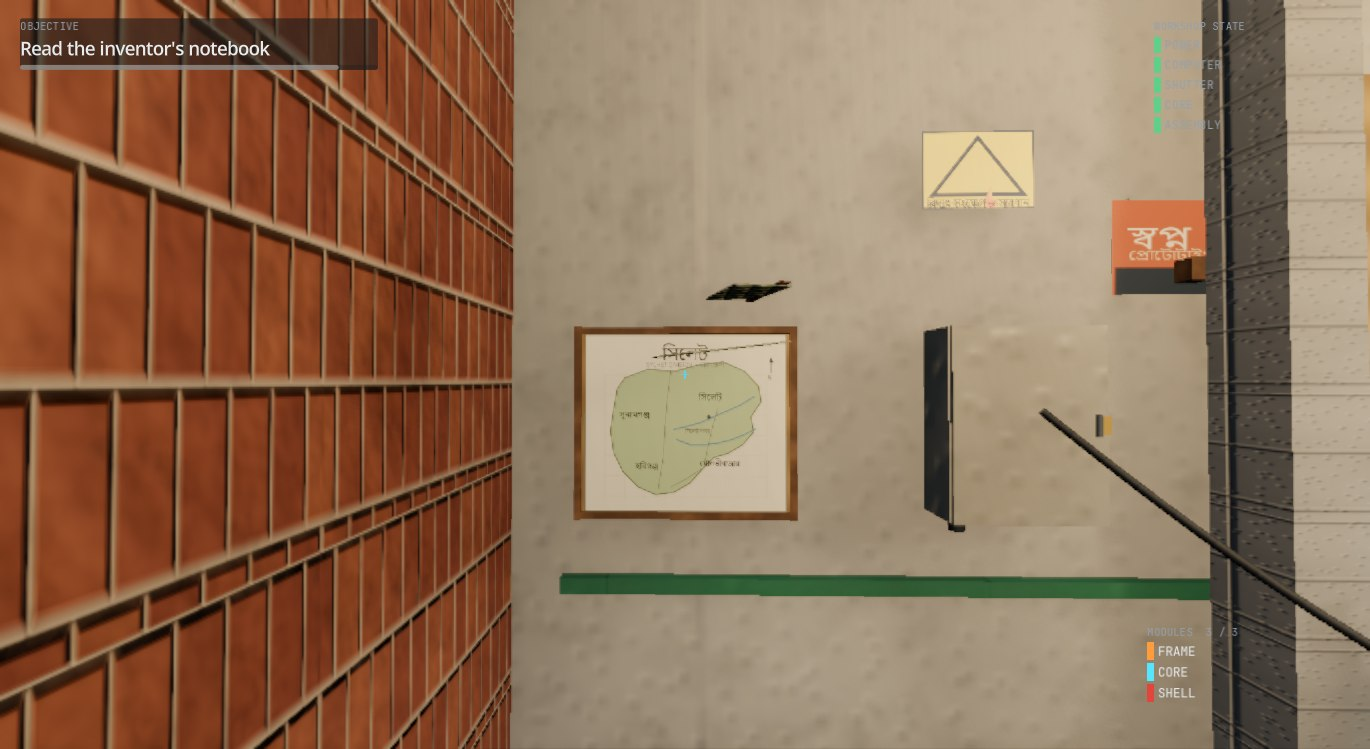
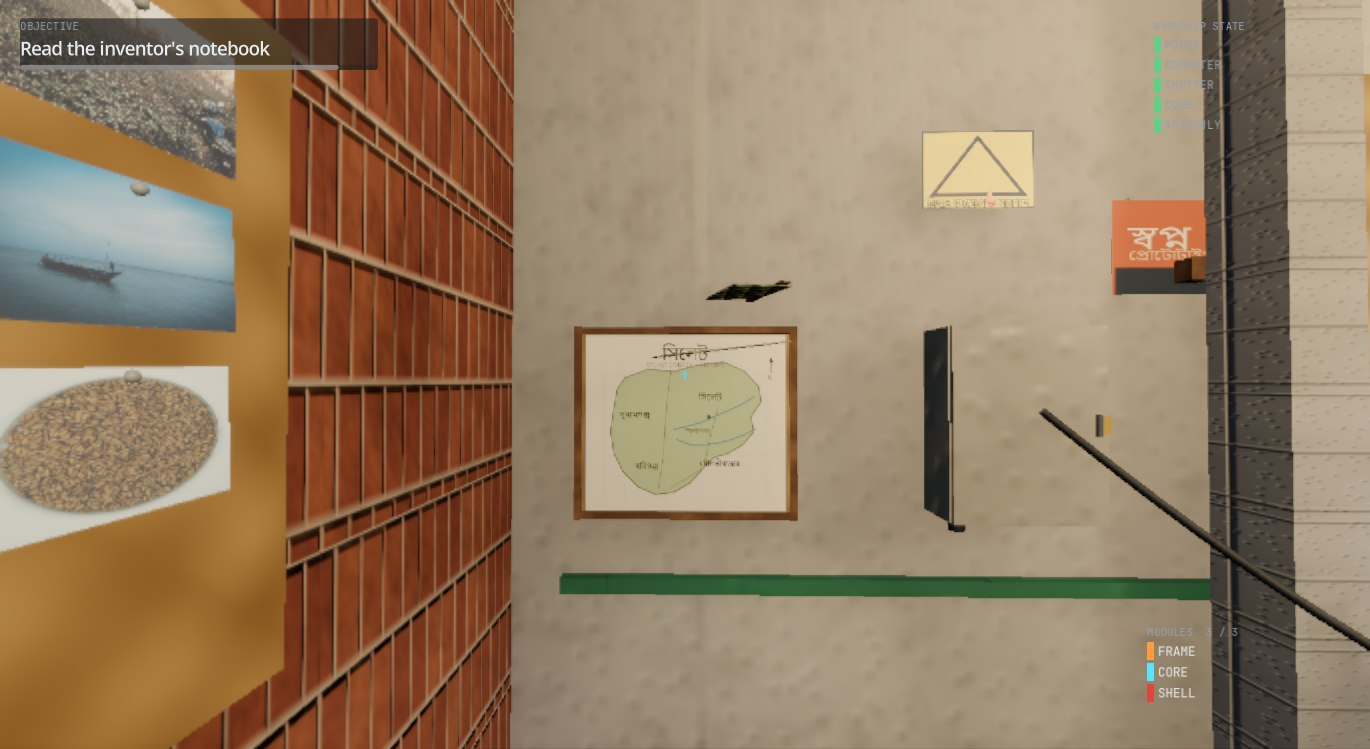
A notice wall of the country, and the author's photographs as wall art
Two sets of pictures, both requested by the author, both routed through the
project's no-import photography pipeline (MaterialLibrary.photo_print()):

The author's own (5): framed row above the mechanical bench (Bangladesh Railway
locomotive, Ali Amjad's clock, an older lab batch), the team photo leaning by the
notebook, the exosuit concept print on the north wall between the airline banner
and the fan ring, and a desk flag sharing the gate flag's cloth — one bake feeds
both poles, and the desk pole is named explicitly after Godot auto-renamed the
collision and left its cloth white.

The notice wall (13): a new photo_wall prop — plywood board, grid of small prints
pinned slightly crooked, each its own material — hung on the entrance's west
pier, opposite the country map. The photographs are community-licensed
(CC BY-SA 4.0) files from Wikimedia Commons, fetched through the Commons API,
licence-checked before download, resized to 480 px (~667 KB total) and recorded
file-by-file with author and source page in docs/ASSET_LICENSES.md (two
Bengali-titled pages linked via search, noted honestly). First fetch attempts hit
Wikimedia's WAF on the WARP egress IP; the direct connection with paced requests
worked, and the whole set stays fast — no new lights, one prop, one station.

Counts: 198 props built, 192 placed, 54 stations, capture set 19 viewpoints.
README's gallery gains the collage and the division map; README, USER_MANUAL,
[…]

Changed region(s): [[0.0, 0.0, 0.2146, 1.0]]

diff --git a/docs/SYSTEM_ARCHITECTURE.md b/docs/SYSTEM_ARCHITECTURE.md
@@ -50,7 +50,7 @@ to catch the first.
     ├── Carry                    (Node)     CarrySystem: mouse pick-up / place / rotate / put back
     ├── Garage                   (Node3D)   GarageStructure: floor, walls, columns, roof, shutter frame
     ├── Environment              (Node3D)   GarageEnvironment: WorldEnvironment, 37 lights, dust, rain
-    ├── Dressing                 (Node3D)   GarageDressing: 191 props, 53 stations, cables, signage, decals
+    ├── Dressing                 (Node3D)   GarageDressing: 192 props, 54 stations, cables, signage, decals
     │
     ├── area volumes ×6          (Area3D)   named rooms; group "garage_areas"
     ├── Player                   (CharacterBody3D)
@@ -82,16 +82,16 @@ progress.
 
 | Step | What it does | Measured (UHD 620) |
 |---|---|---|
-| 0 | `MaterialLibrary.ensure_built()`, first surface synthesised | 270 ms for one 256 px surface (262–283 across runs) |
-| 1 | `GarageStructure.build()` — floor, plinths, courtyard, walls, columns, roof, shutter frame, entrance apron, windows | 5 866 ms |
-| 2 | `GarageEnvironment.build()` — sky, WorldEnvironment, 29 lights in 4 circuits, dust, rain (the five always-on bulbs and the sign's RGB rig are registered by the dressing, each light attached to its own prop) | 40 ms |
-| 3 | `GarageDressing.dress()` — 5 areas, 4 procedural layout groups, 2 wall racks, cables, signage, the always-on bulbs, the wall maps, the sign's RGB rig, the photographs | 4 996 ms |
+| 0 | `MaterialLibrary.ensure_built()`, first surface synthesised | 269 ms for one 256 px surface (262–283 across runs) |
+| 1 | `GarageStructure.build()` — floor, plinths, courtyard, walls, columns, roof, shutter frame, entrance apron, windows | 5 912 ms |
+| 2 | `GarageEnvironment.build()` — sky, WorldEnvironment, 29 lights in 4 circuits, dust, rain (the five always-on bulbs and the sign's RGB rig are registered by the dressing, each light attached to its own prop) | 37 ms |
+| 3 | `GarageDressing.dress()` — 5 areas, 4 procedural layout groups, 2 wall racks, cables, signage, the always-on bulbs, the wall maps, the sign's RGB rig, the photographs, the notice wall | 5 187 ms |
 | 4 | Area volumes | — |
-| 5 | Live `SubViewport`s for 5 screens, attached to their materials | 73 ms |
-| 6 | Player, camera, ray, reticle, collision, capsule sizing | 31 ms |
-| 7 | HUD, all panels, `ObjectiveDirector`, `start()` | 233 ms |
+| 5 | Live `SubViewport`s for 5 screens, attached to their materials | 78 ms |
+| 6 | Player, camera, ray, reticle, collision, capsule sizing | 32 ms |
+| 7 | HUD, all panels, `ObjectiveDirector`, `start()` | 201 ms |
 | 8 | `_apply_restored_state()` — replays a saved run with `instant = true` | — |
-| | **total** | **11 509 ms** |
+| | **total** | **11 716 ms** |
 
 Surfaces are synthesised **lazily**, on first request. Loading every recipe up front would cost
 roughly 9.5 s for all 34 at 256 px; the garage actually touches 34 of them, so the saving is in the
@@ -169,7 +169,7 @@ per texel into colour/roughness/metallic/occlusion/height, pack to RGB8 byte buf
 tangent-space normal by Sobel gradient on the wrapped height field, upload in one
 `Image::create_from_data` per channel. See `docs/GRAPHICS_ALGORITHMS.md` §2.
 
-**`shape_kit.gd`** — the primitive composition layer, and the reason 197 props is affordable. Two
+**`shape_kit.gd`** — the primitive composition layer, and the reason 198 props is affordable. Two
 ideas: a mesh cache keyed on dimensions so forty spanners share one mesh, and true generators (lathe
 from a profile, gear from tooth count and module, tube sweep, coil, chain, plate) for the shapes that
 are not primitives. Also `shape_aabb_local()`, `area_aabb()` and `node_bounds()`, which exist because
@@ -350,7 +350,7 @@ and in the capture harness. The rain, the dust and the footsteps use separate se
 one does not perturb another.
 
 **Fixed capture viewpoints.** The capture harness drives the progression to a known state and parks
-the camera at eighteen declared transforms, which is what makes the screenshots in `captures/`
+the camera at nineteen declared transforms, which is what makes the screenshots in `captures/`
 comparable between code revisions. It also reports a luminance histogram per shot: the check that
 matters most is the `black` percentage, because a lighting rig that renders almost nothing still
 produces a screenshot and would otherwise read as success.
@@ -375,7 +375,7 @@ so that `tests/validate_scripts.gd` can run in an environment with no GPU.
 | `tests/walk_in.gd` | Builds the world headless, takes control of the real player and drives it from the spawn into the shop, back out and sideways across the courtyard, printing position, floor contact, stalls and — when stalled — the exact collider being slid against. This is what proved the entrance lip unclimbable, the courtyard boundless, and the gravity-accumulation pinning on slopes (`docs/EXPERIMENTS.md` §7.6). |
 | Perf harness (`perf.flag`) | Drives the full progression, then samples three fixed viewpoints twice each — shipped settings and the earlier values flipped back at runtime in the same session — and writes a paired A/B table to `user://captures/perf.log`. Its first run is what exposed the shadow-budget bug and the session's 7.5 Hz presentation cap (`docs/EXPERIMENTS.md` §7.5). |
 | `tests/bake_preview.gd` | Renders the lab-wall plate specs (scientists, header, inventions board) and the wall maps (Bangladesh, Sylhet) to PNGs in `user://captures/`, so Bengali on a wall can be proof-read at full resolution without launching the garage. |
-| Capture harness | Boots the real renderer, drives the full progression, writes 18 PNGs plus luminance histograms and a build report. Catches the class of failure that compiles cleanly and renders nothing. |
+| Capture harness | Boots the real renderer, drives the full progression, writes 19 PNGs plus luminance histograms and a build report. Catches the class of failure that compiles cleanly and renders nothing. |
 | Graphics bench | Self-measurement at runtime, exportable to CSV, with a fixed-camera capture at each configuration. |
 
 What is **not** tested: there is no unit test suite, no automated interaction test that drives `E`

diff --git a/docs/EXPERIMENTS.md b/docs/EXPERIMENTS.md
@@ -39,7 +39,7 @@ transfer.
   `CableGenerator.last_stats`, `GarageDressing.layout_stats()`.
 
 **Reproducibility controls.** Fixed seed 1337 for prop generation; a per-group seed for each
-procedural layout; per-surface seeds derived by hash; eighteen fixed camera transforms; 30 frames of
+procedural layout; per-surface seeds derived by hash; nineteen fixed camera transforms; 30 frames of
 warm-up discarded before every measurement.
 
 **Known weakness.** Godot 4.7 exposes no GPU timestamp query. All per-pass costs below are
@@ -378,33 +378,33 @@ performance work.
 
 | Step | Time | Share | What dominates |
 |---|---|---|---|
-| Surface synthesis (first surface) | 270 ms | 2.3% | the per-texel loop |
-| Structure — floor, walls, columns, roof, shutter, entrance apron, windows | 5 866 ms | 51.0% | mesh generation, collision shapes, and the surfaces it requests |
-| Environment — sky, `WorldEnvironment`, 29 lights, dust, rain | 40 ms | 0.3% | negligible |
-| Dressing — 191 placements, 53 stations, 4 layout groups, cables, signage, grime decals, wall plaques, flag, coin, always-on bulbs, wall maps, the sign's RGB rig, photographs | 4 996 ms | 43.4% | prop construction, station wiring, and its surfaces |
-| Screens — 5 live `SubViewport`s and their materials | 73 ms | 0.6% | — |
-| Player — camera, ray, reticle, collision | 31 ms | 0.3% | — |
-| Interface — HUD, 10 panels, objective director | 233 ms | 2.0% | — |
-| **Total** | **11 509 ms** | **100%** | |
+| Surface synthesis (first surface) | 269 ms | 2.3% | the per-texel loop |
+| Structure — floor, walls, columns, roof, shutter, entrance apron, windows | 5 912 ms | 50.5% | mesh generation, collision shapes, and the surfaces it requests |
+| Environment — sky, `WorldEnvironment`, 29 lights, dust, rain | 37 ms | 0.3% | negligible |
+| Dressing — 192 placements, 54 stations, 4 layout groups, cables, signage, grime decals, wall plaques, flag, coin, always-on bulbs, wall maps, the sign's RGB rig, photographs, the notice wall | 5 187 ms | 44.3% | prop construction, station wiring, and its surfaces |
+| Screens — 5 live `SubViewport`s and their materials | 78 ms | 0.7% | — |
+| Player — camera, ray, reticle, collision | 32 ms | 0.3% | — |
+| Interface — HUD, 10 panels, objective director | 201 ms | 1.7% | — |
+| **Total** | **11 716 ms** | **100%** | |
 
 **Dressing breakdown, `GarageDressing.dressing_breakdown()`**
 
 | | |
 |---|---|
-| Props placed by the dressing pass | 191 |
-| Props built in total (includes module payloads and suit parts) | 197 |
+| Props placed by the dressing pass | 192 |
+| Props built in total (includes module payloads and suit parts) | 198 |
 | Distinct prop kinds | 134 |
-| Authored placements | 159 |
+| Authored placements | 160 |
 | Procedural placements | 22 (4 groups: 6 + 5 + 6 + 5) |
 | Wall-rack placements | 10 |
-| Mesh cache hits / misses | 1 805 / 1 140 |
+| Mesh cache hits / misses | 1 818 / 1 141 |
 | Rejection-sampler efficiency | 46% of attempts produce a placement |
 
 The counts above are from the shipped build. The per-step times are from the latest capture run;
-the same garage measured 11 466 ms, 11 015 ms and 12 473 ms across the day's earlier runs, so treat
-absolute milliseconds as load-dependent — they drift by about 20% when something else is using the
-laptop — and the shares as the finding. This is worth stating rather than pretending the machine is a
-benchmark rig.
+the same garage measured 11 509 ms, 11 466 ms, 11 015 ms and 12 473 ms across the day's earlier
+runs, so treat absolute milliseconds as load-dependent — they drift by about 20% when something else
+is using the laptop — and the shares as the finding. This is worth stating rather than pretending the
+machine is a benchmark rig.
 
 **Finding 7.1 — surface synthesis dominates the wall clock.** The first surface costs 262–283 ms across
 runs in step 0; the other 33 are synthesised lazily inside the structure and dressing steps. At
@@ -413,8 +413,8 @@ left is moving that per-texel loop to a compute shader, not reducing geometry. T
 13 × 16.5 m room measured 71%; the share rose when the room shrank, because the texture cost is per
 *surface*, not per cubic metre.
 
-**Finding 7.2 — mesh caching is what makes 197 props affordable.** 1 140 distinct meshes serve 191
-placed props through 1 805 hits. Without the cache every spanner, capacitor and bolt would allocate
+**Finding 7.2 — mesh caching is what makes 198 props affordable.** 1 141 distinct meshes serve 192
+placed props through 1 818 hits. Without the cache every spanner, capacitor and bolt would allocate
 its own `BoxMesh`; with it, forty spanners share one. This is also why the frame time is as low as it
 is — shared meshes are candidates for batching in a way that per-instance geometry is not.
 
@@ -557,7 +557,7 @@ mathematically on the ground — and only the joint reading of numbers and pixel
 11. The per-texel composition loop is the surface-synthesis bottleneck, not the noise generation;
     moving from 512 px to 256 px halved the load time with no visible loss because tiling hides the
     missing resolution. (§1.1)
-12. Mesh caching at 1.6:1 reuse is what makes 197 props affordable. (§7.2)
+12. Mesh caching at 1.6:1 reuse is what makes 198 props affordable. (§7.2)
 13. Two-thirds of the total build is structure and dressing geometry. (§7.4)
 14. A state the build writes itself cannot be used to audit the build: the restore replay read
     `GameState` back and re-applied the still-running build's own writes, killing the new auto-open on

diff --git a/docs/ASSET_LICENSES.md b/docs/ASSET_LICENSES.md
@@ -10,8 +10,9 @@ records exactly what came from where, and under what terms.
 
 | Category | Count | Origin | Licence |
 |---|---|---|---|
-| 3D meshes | 1 140 distinct, 191 placed | **Generated at runtime** by `ShapeKit` and the prop catalogues | Original work, same licence as the source |
+| 3D meshes | 1 141 distinct, 192 placed | **Generated at runtime** by `ShapeKit` and the prop catalogues | Original work, same licence as the source |
 | Photographs (5) | Wall art from `assets/textures/user/` | **Supplied by the author** for in-world frames | Loaded with `Image.load_from_file()`, no import side files; the locomotive and clock images are also published on Wikimedia Commons — pin their exact licences before wider redistribution |
+| Photographs (13) | The notice-wall collage, `assets/textures/wall/` | **Wikimedia Commons, CC BY-SA 4.0**, fetched through the Commons API and resized to 480 px | Every file, author and source page is listed below |
 | Texture images | 34 surface sets × 3 channels = 102 images | **Synthesised at runtime** by `TextureFactory` | Original work |
 | Supplied photograph | 1 image (127 KB) | **Provided by the project's author** — the workshop banner hung on the north wall | Author's own work, used with the author's permission |
 | Audio | 22 clips | **Synthesised at runtime** by `AudioSynth` | Original work |
@@ -33,8 +34,33 @@ catalogues.
 Two mechanisms are used:
 
 **Engine primitives, parameterised.** Godot's `BoxMesh`, `CylinderMesh`, `SphereMesh`, `TorusMesh`,
-`PlaneMesh` and `CapsuleMesh` are configured per prop and cached by dimensions. 1 140 distinct
-configured meshes serve 191 placed props through 1 805 cache hits in the shipped room.
+`PlaneMesh` and `CapsuleMesh` are configured per prop and cached by dimensions. 1 141 distinct
+configured meshes serve 192 placed props through 1 818 cache hits in the shipped room.
+
+**The notice-wall photographs.** Thirteen files from Wikimedia Commons, fetched through the Commons
+API, each checked to carry a CC BY-SA 4.0 licence before download, then resized to 480 px for the
+collage. Authors as named on the file pages:
+
+| In-game file | Commons file | Author |
+|---|---|---|
+| `wall_01.jpg` | [Back view of Rickshaw … bd](https://commons.wikimedia.org/w/index.php?search=Back+view+of+Rickshaw+bd) (title carries Bengali script) | Bengali Wikimedia user, named on the file page |
+| `wall_02.jpg` | [At Sadarghat street Market 06](https://commons.wikimedia.org/wiki/File:At_Sadarghat_street_Market_06.jpg) | Kritzolina |
+| `wall_03.jpg` | [Inside bamboo frame roadside tea stall Khulna](https://commons.wikimedia.org/wiki/File:Inside_bamboo_frame_roadside_tea_stall_Khulna.jpg) | User:TanvirSdq |
+| `wall_04.jpg` | [Lakkatura Tea Garden, Sylhet](https://commons.wikimedia.org/wiki/File:Lakkatura_Tea_Garden,_Sylhet.jpg) | AdibHossain999 |
+| `wall_05.jpg` | [Bangladesh Railway 2](https://commons.wikimedia.org/wiki/File:Bangladesh_Railway_2.jpg) | Mahbubur |
+| `wall_06.jpg` | [City point, Sylhet (cropped)](https://commons.wikimedia.org/wiki/File:City_point,sylhet_(cropped).jpg) | Abdul hadi chowdhury |
+| `wall_07.jpg` | [A fishing boat at Muktaria ghat, Hatiya, Noakhali](https://commons.wikimedia.org/wiki/File:A_fishing_boat_at_Muktaria_ghat_,_Hatiya,_Noakhali,_Bangladesh._Meghna_river_on_the_left_side.(_29_February_2020)..jpg) | Salim Khandoker |
+| `wall_08.jpg` | [A boat in Padma river](https://commons.wikimedia.org/wiki/File:A_boat_in_Padma_river.jpg) | Smartmsh |
+| `wall_11.jpg` | [A pigeon house in a Santal village in Dinajpur district 02](https://commons.wikimedia.org/wiki/File:A_pigeon_house_in_a_Santal_village_in_Dinajpur_district_02.jpg) | Kritzolina |
+| `wall_12.jpg` | [Baitul Mukarram National Mosque, Dhaka 168](https://commons.wikimedia.org/wiki/File:Baitul_Mukarram_National_Mosque,Dhaka_168.jpg) | Frameofashik |
+| `wall_13.jpg` | [Bangladesh Railway Museum, Chattogram (2Q7A0322)](https://commons.wikimedia.org/wiki/File:Bangladesh_Railway_Museum,_Chattogram_(2Q7A0322).jpg) | Moheen Reeyad |
+| `wall_14.jpg` | [Badshavog — ধান — Paddy — DSC00603](https://commons.wikimedia.org/w/index.php?search=Badshavog+Paddy+DSC00603) (title carries Bengali script) | ROCKY |
+| `wall_15.jpg` | [A Bangladeshi Saintmartin Hyundai Bus In Dhaka Chittagong Highway](https://commons.wikimedia.org/wiki/File:A_Bangladeshi_Saintmartin_Hyundai_Bus_In_Dhaka_Chittagong_Highway.jpg) | Sabbir Siam |
+
+Two file pages are linked through a Commons search because their titles carry Bengali script that the
+fetch pipeline could not round-trip; both are CC BY-SA 4.0 and their authors are as shown on the
+pages. CC BY-SA 4.0 requires attribution and share-alike for derivatives — the credits here are that
+attribution, and any redistribution of the collage keeps this file with it.
 
 **Geometry generated from parameters.** Where a primitive is insufficient, the mesh is built with
 `SurfaceTool` or `ArrayMesh` from parameters:

diff --git a/docs/PROJECT_OVERVIEW.md b/docs/PROJECT_OVERVIEW.md
@@ -137,7 +137,7 @@ recorded in `docs/ASSET_LICENSES.md`.
 |---|---|
 | First-person controller | WASD, mouse look, sprint, crouch-walk, gravity, jump, distance-driven head bob, material-aware footsteps |
 | Interaction | Raycast focus with a bounding-box reticle, contextual prompts, E to operate, F to inspect |
-| Interactable stations | 53 registered, across 20 behaviour kinds |
+| Interactable stations | 54 registered, across 20 behaviour kinds |
 | Power | 4 circuits, sequential energisation, tube strike simulation, live circuit isolation from the MCB row |
 | Workstation | 6-section `Control`-built interface reading live simulation state, with a POST → login → ready boot |
 | In-world screens | 5 screen meshes, 5 live `SubViewport`s, temperature-graded CRT and LCD glass shader |
@@ -152,6 +152,7 @@ recorded in `docs/ASSET_LICENSES.md`.
 | Wall maps | Two hand-drawn sketch maps hung on the entrance walls: the country right of the gate, the Sylhet division beside the door — outline, rivers, towns and district lines drawn through the same sign baker as every other sign, with `F` text honest that they are line sketches, not survey data |
 | Shop signboard | Hand-painted tin over the gate, now framed in a chasing **RGB LED strip** (its own shader) with two colour-cycling washes — all on the incoming line, so the board stays bright and the street gets its neon whatever the switchboard does |
 | Keepsakes | The author's own photographs as wall art: a framed row above the mechanical bench (a Bangladesh Railway locomotive, Ali Amjad's clock, a lab batch around a CRT), the team photo leaning by the notebook, the exosuit concept poster on the wall the stand faces, and a desk flag — loaded through the same no-import `photo_print()` path as the street banner |
+| Notice wall | Thirteen community-licensed (CC BY-SA 4.0) photographs of the country — rickshaws, Sadarghat market, a Khulna tea stall, the Sylhet tea gardens, the railway, boats, paddy — pinned crooked to a plywood board on the entrance wall; every file's author and source recorded in `docs/ASSET_LICENSES.md` |
 | Auto-opening gate | The shutter's presence sensor rolls the curtain up as anyone approaches the courtyard — it starts most of the way down and the room wakes up as it lifts. It can no longer be lowered |
 | Always-on bulbs | Five bare bulbs — walk lane, both benches, the testing corner, the store — are wired ahead of the switchboard to the incoming line, outside every switchable circuit: the room is never dark, even at the start, and each bulb carries its own light when you pick it up |
 | Entrance | A concrete apron ramps the doorway down to the packed earth so the shop can be walked into and out of without breaking stride, and the courtyard is walled in — walking past the street wall or the neighbour walls stops you instead of dropping you out of the world |
@@ -200,7 +201,7 @@ assembly sequence. That is the localisation requirement, implemented as configur
 
 On Intel UHD 620 at 1600×900, Forward+:
 
-- Garage build: **11.5 s** in the latest capture run (5.9 s structure, 5.0 s dressing for 191
+- Garage build: **11.7 s** in the latest capture run (5.9 s structure, 5.2 s dressing for 192
   placements; the same build has measured 11.0–12.5 s across earlier runs — machine load moves it;
   most of the total is surface synthesis, spread across both steps)
 - Medium preset: 40–55 fps measured before the preset retune — SDFGI and volumetric fog off, SSR on,

diff --git a/README.md b/README.md
@@ -36,7 +36,7 @@ is running on.
 ### The garage, in pictures
 
 All frames below are real-time captures taken by the project's own verification harness — the
-eighteen-viewpoint camera set documented in `docs/EXPERIMENTS.md`, driven through the full
+nineteen-viewpoint camera set documented in `docs/EXPERIMENTS.md`, driven through the full
 progression and written with luminance histograms so the build can be checked frame by frame.
 
 |  |  |
@@ -53,6 +53,8 @@ progression and written with luminance histograms so the build can be checked fr
 | The scientists' corner — six honour plaques and the inventions board | A hand-drawn wall map of Bangladesh, right of the gate |
 | <img src="screenshots/17_photo_wall.jpg" width="420"> | <img src="screenshots/02_entrance.jpg" width="420"> |
 | The owner's photographs above the mechanical bench | Walking in: the gate, the maps, the lit shop |
+| <img src="screenshots/18_notice_wall.jpg" width="420"> | <img src="screenshots/16_division_map.jpg" width="420"> |
+| Thirteen community-licensed photographs pinned at the entrance | The Sylhet division map beside the door |
 
 ---
 
@@ -86,7 +88,7 @@ global-illumination features; the Settings panel switches it live.
 ### Capture / verification mode
 
 Dropping an empty file named `capture.flag` next to `project.godot` puts the world into verification
-mode: it drives the whole twelve-step progression, then parks the camera at eighteen fixed viewpoints
+mode: it drives the whole twelve-step progression, then parks the camera at nineteen fixed viewpoints
 and writes a PNG plus a luminance histogram for each, then quits. The files land in `user://captures/`
 (`%APPDATA%\Godot\app_userdata\Deshi Iron Garage\captures\` on Windows), which is how the screenshots
 quoted in `docs/EXPERIMENTS.md` were produced. It is not a shipped feature and has no effect without
@@ -270,13 +272,13 @@ in-world graphics bench. These are the numbers the application reports about its
 
 | Measurement | Value |
 |---|---|
-| Full garage build | ≈ 11–12 s (11.5 s in the latest capture run; it moves with machine load) |
+| Full garage build | ≈ 11–12 s (11.7 s in the latest capture run; it moves with machine load) |
 | Surface synthesis, first 256 px surface | ≈ 280 ms |
-| Props placed | 191 (197 built, 134 kinds) |
-| Interactive stations | 53 |
+| Props placed | 192 (198 built, 134 kinds) |
+| Interactive stations | 54 |
 | Registered lights | 37 (of which shadow casters: 7) |
 | Live screen SubViewports | 5 |
-| Mesh cache | 1805 hits, 1140 misses |
+| Mesh cache | 1818 hits, 1141 misses |
 | CPU loop, headless (script side, no GPU work) | 7.9 ms per frame (127 fps) |
 | Adaptive resolution | on by default: render scale 0.55–0.85, ±0.05 per second, holding worst-case frames under 24 ms |
 | Frame rate | interactive only: the automated capture session's window presentation is capped at 7.5 Hz regardless of load (see `docs/EXPERIMENTS.md` §7.5), so frame rates are read from the in-app bench (F6). The retune cut 13–27 ms of CPU frame time against the earlier settings |

diff --git a/docs/RESEARCH_METHODOLOGY.md b/docs/RESEARCH_METHODOLOGY.md
@@ -100,7 +100,7 @@ of the surface key plus a fixed base, so a surface is byte-identical across runs
 at the same resolution. Rain, dust and footstep variation use separate seeds so changing one cannot
 perturb another.
 
-**Fixed camera positions.** Eighteen declared transforms, used by both the capture harness and the
+**Fixed camera positions.** Nineteen declared transforms, used by both the capture harness and the
 graphics bench. This is what makes two screenshots comparable between code revisions.
 
 **Fixed warm-up.** Every measurement run discards 30 frames before sampling and then takes three
@@ -212,7 +212,7 @@ The traceability is explicit:
 | Bundling saves draw calls | `CableGenerator.generate_bundle()` — one `SurfaceTool`, one `commit()` |
 | Seven shadow casters of 37 lights | `GarageEnvironment` and the dressing register 37; the bench reports the caster count |
 | Shutter drives the daylight | `GarageEnvironment.set_shutter_influence()`, called from `GarageWorld._process()` |
-| 197 props built, 134 kinds | `GarageWorld.build_report()` |
+| 198 props built, 134 kinds | `GarageWorld.build_report()` |
 | Screen content reads the simulation | `ScreenContent._snapshot()`, called by every screen and every panel |
 | The A/B performance harness | `GarageWorld._perf_process()` (`perf.flag`), reported in `docs/EXPERIMENTS.md` §7.5 |
 
@@ -254,6 +254,6 @@ change was committed.
 
 **Instrumentation over assertion.** Every time a claim was about to be made, the first attempt was to
 make it measurable. "The build is fast enough" became per-step timings. "The lighting looks good"
-became eighteen fixed shots with luminance histograms. "The cables are efficient" became
+became nineteen fixed shots with luminance histograms. "The cables are efficient" became
 `last_stats` with a triangle count and a draw-call count. Where a thing could not be measured it is
 labelled as a judgement.

diff --git a/docs/USER_MANUAL.md b/docs/USER_MANUAL.md
@@ -265,7 +265,9 @@ inventor's voice, and a short letter. The sketch's dimensions are the ones the s
 row above the mechanical bench — a Bangladesh Railway locomotive, Ali Amjad's clock in Sylhet, and an
 older batch of students around a half-stripped television — the team photo leaning by the notebook,
 the exosuit concept poster on the wall the assembly stand faces, and a desk flag on the electronics
-bench. `F` on any of them for the story.
+bench. At the entrance, a plywood board pins thirteen pictures of the country itself — rickshaws,
+markets, tea gardens, boats, paddy — the community-licensed set whose credits are listed in
+`docs/ASSET_LICENSES.md`. `F` on any of them for the story.
 
 ---
 

diff --git a/docs/GRAPHICS_ALGORITHMS.md b/docs/GRAPHICS_ALGORITHMS.md
@@ -514,8 +514,8 @@ that darkens distant sources.
 
 ### 8.1 Mesh caching
 
-`ShapeKit` keys every primitive on its dimensions and reuses the mesh. The garage builds 197 props
-from **1 140 distinct meshes** with **1 805 cache hits** — a 1.6:1 reuse ratio, which is the difference
+`ShapeKit` keys every primitive on its dimensions and reuses the mesh. The garage builds 198 props
+from **1 141 distinct meshes** with **1 818 cache hits** — a 1.6:1 reuse ratio, which is the difference
 between a scene that runs on integrated graphics and one that does not.
 
 ### 8.2 Generators rather than primitives
